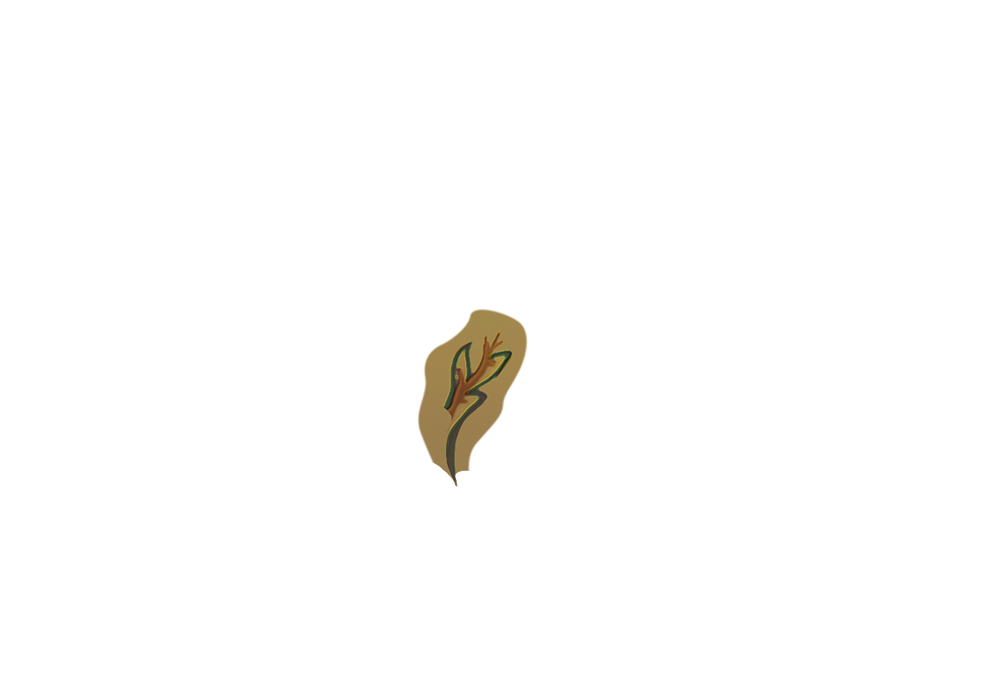
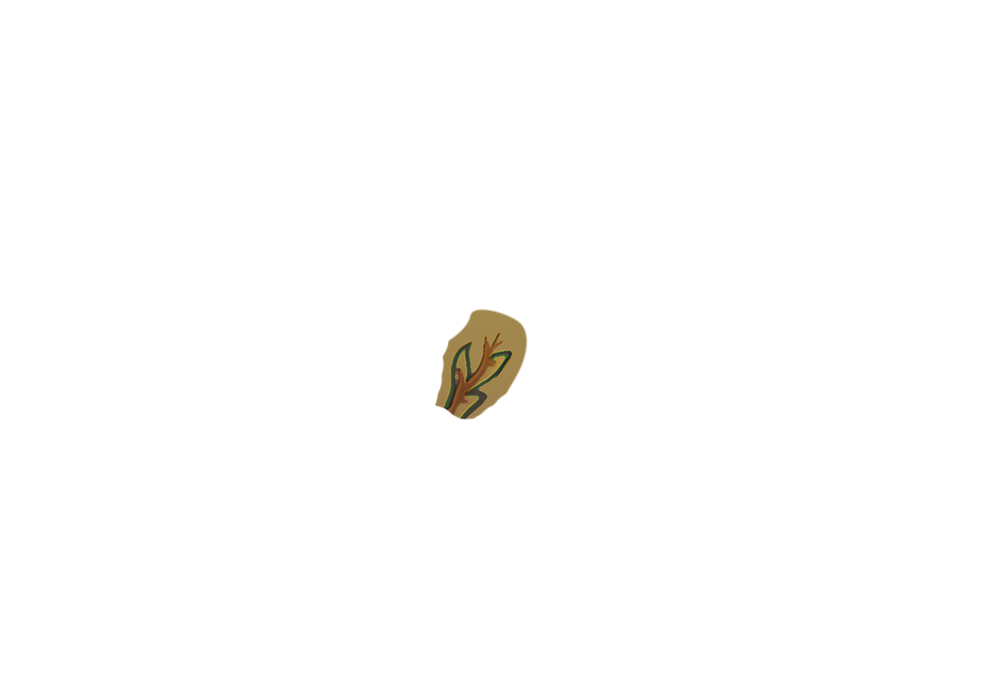
updated positions in branches level-4

Changed region(s): [[0.403, 0.48, 0.527, 0.69]]

diff --git a/app/styles/tree/tree-level-4.scss b/app/styles/tree/tree-level-4.scss
@@ -149,13 +149,6 @@
             background-image: url(../images/tree/nodos/nodo-verde.png);
           }
         }
-        &-6 {
-          bottom: 210px;
-          left: 20px;
-          &.florecida{
-            background-image: url(../images/tree/nodos/nodo-verde.png);
-          }
-        }
         &-10 {
           bottom: 105px;
           left: 40px;
@@ -322,7 +315,7 @@
       .fourth-level-branch {
         &-0 {
           &.florecida{
-            background-image: url(../images/tree/level-4/rama005.png);
+            background-image: url(../images/tree/level-4/rama007.png);
           }
         }
         &-1 {
@@ -332,12 +325,12 @@
         }
         &-2 {
           &.florecida{
-            background-image: url(../images/tree/level-4/rama007.png);
+            background-image: url(../images/tree/level-4/rama005.png);
           }
         }
         &-4 {
           &.florecida{
-            background-image: url(../images/tree/level-4/rama033.png);
+            background-image: url(../images/tree/level-4/rama007.png);
           }
         }
         &-5 {
@@ -347,12 +340,12 @@
         }
         &-10 {
           &.florecida{
-            background-image: url(../images/tree/level-4/rama032.png);
+            background-image: url(../images/tree/level-4/rama031.png);
           }
         }
         &-11 {
           &.florecida{
-            background-image: url(../images/tree/level-4/rama031.png);
+            background-image: url(../images/tree/level-4/rama061.png);
           }
         }
         &-8 {
@@ -367,17 +360,22 @@
         }
         &-12 {
           &.florecida{
-            background-image: url(../images/tree/level-4/rama080.png);
+            background-image: url(../images/tree/level-4/rama082.png);
           }
         }
         &-13 {
+          left: -121px;
+          bottom: -21px;
           &.florecida{
-            background-image: url(../images/tree/level-4/rama081.png);
+            background-image: url(../images/tree/level-4/rama083.png);
           }
         }
         &-18 {
+          bottom: -52px;
+          height: 740px;
+          left: -171px;
           &.florecida{
-            background-image: url(../images/tree/level-4/rama083.png);
+            background-image: url(../images/tree/level-4/rama084.png);
           }
         }
         &-19 {
@@ -387,17 +385,23 @@
         }
         &-20 {
           &.florecida{
-            background-image: url(../images/tree/level-4/rama087.png);
-          }
-        }
-        &-21 {
-          &.florecida{
             background-image: url(../images/tree/level-4/rama086.png);
           }
         }
-        &-22 {
+        &-21 {
+          left: -210px;
+          bottom: -67px;
+          height: 770px;
           &.florecida{
             background-image: url(../images/tree/level-4/rama085.png);
+          }
+        }
+        &-22 {
+          bottom: -32px;
+          left: -155px;
+          height: 725px;
+          &.florecida{
+            background-image: url(../images/tree/level-4/rama087.png);
           }
         }
       }
